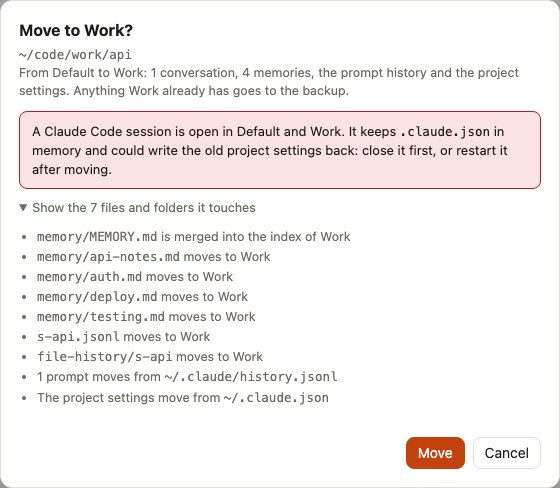
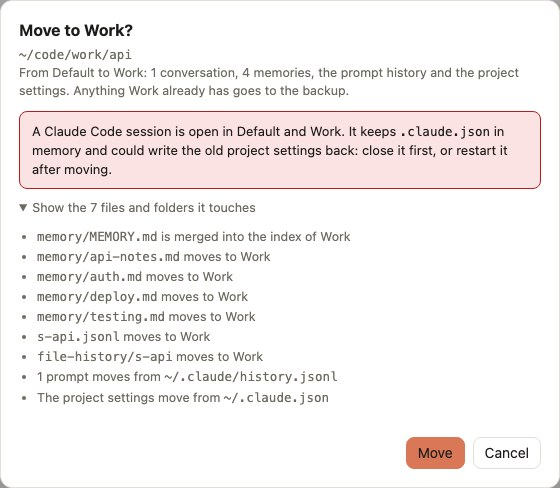
Screenshots, demo GIFs and social preview with the new colors and controls

Changed region(s): [[0.6982, 0.8914, 0.85, 0.9836]]

diff --git a/docs/guides/backups.md b/docs/guides/backups.md
@@ -4,7 +4,7 @@ Every operation that changes files creates a backup in `~/.cc-profiles/backups/<
 
 <picture>
   <source media="(prefers-color-scheme: dark)" srcset="../assets/screenshots/backups-dark.jpg">
-  <img src="../assets/screenshots/backups-light.jpg" alt="The Backups tab: three backups with Show changes, Restore, Keep and Delete" width="1440" height="622" loading="lazy">
+  <img src="../assets/screenshots/backups-light.jpg" alt="The Backups tab: three backups with Show changes, Restore, Keep and Delete" width="1440" height="624" loading="lazy">
 </picture>
 
 ## What a backup contains
